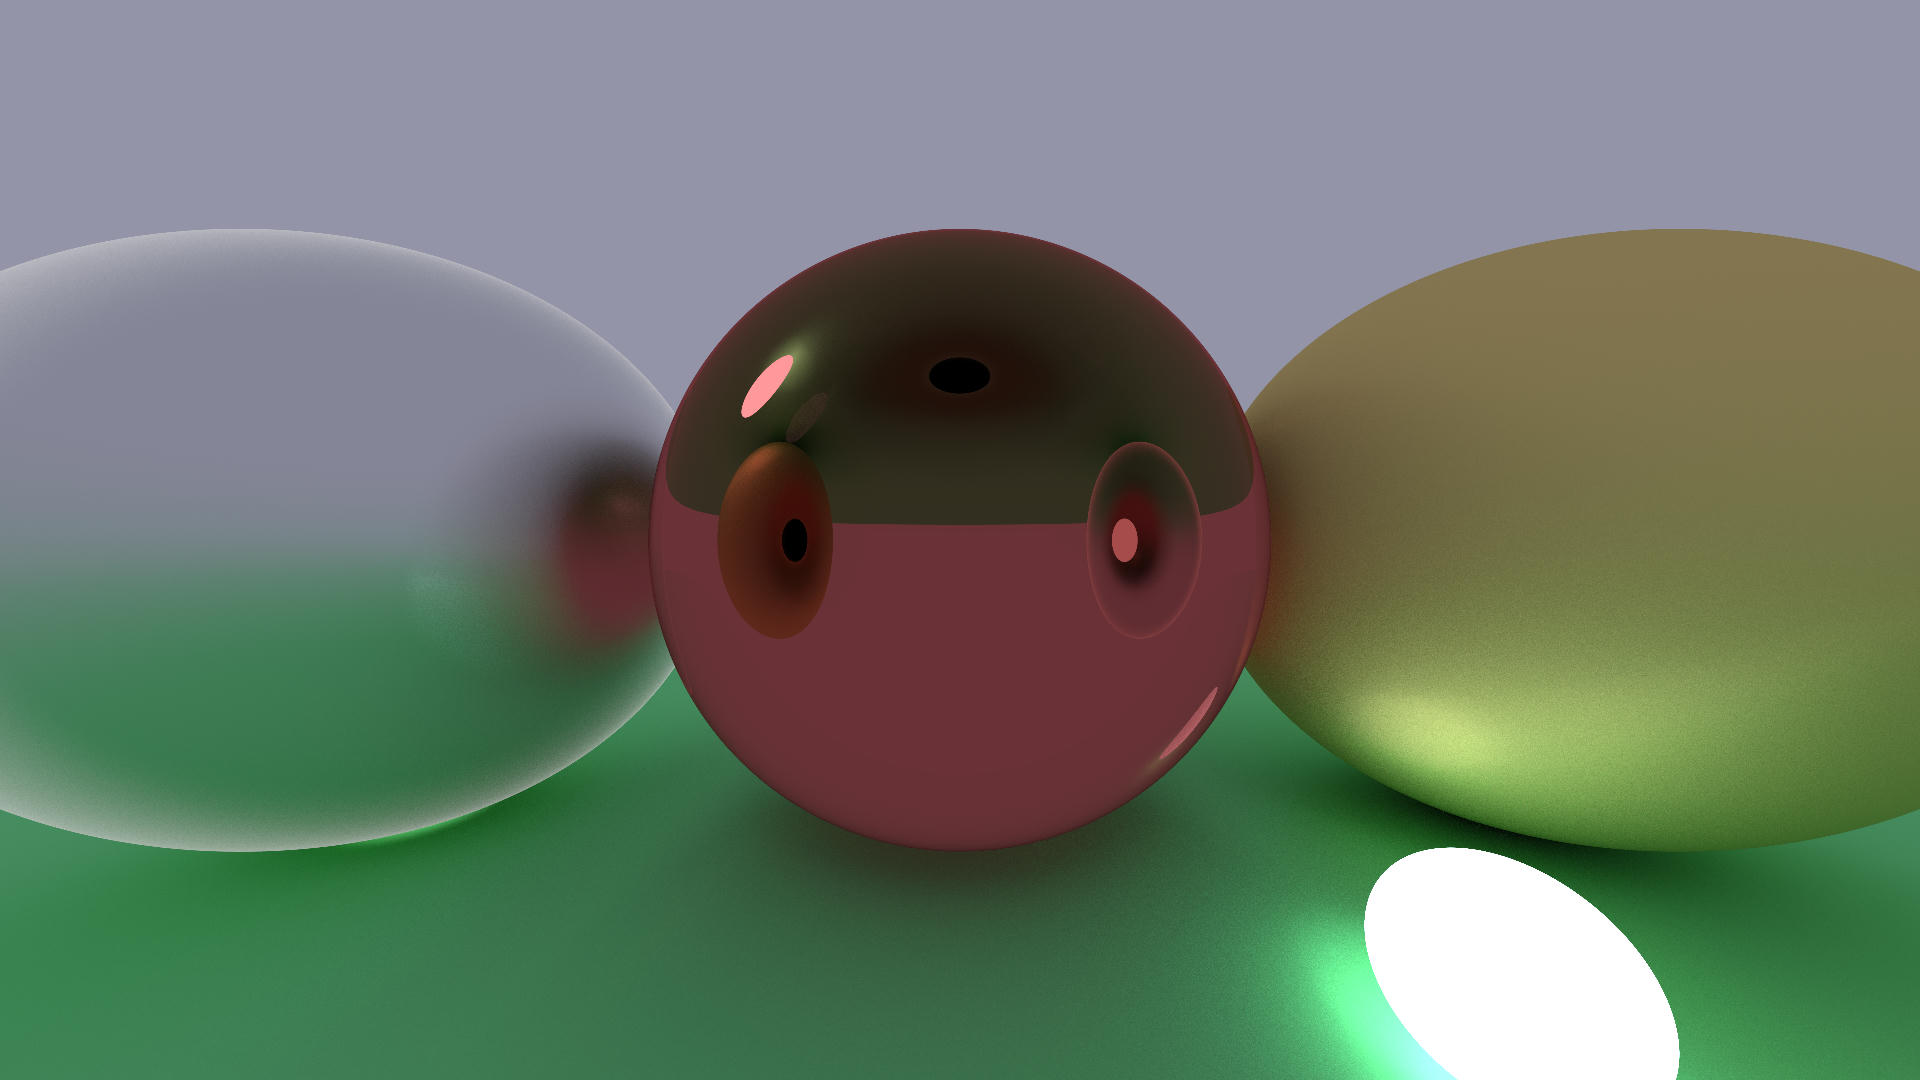
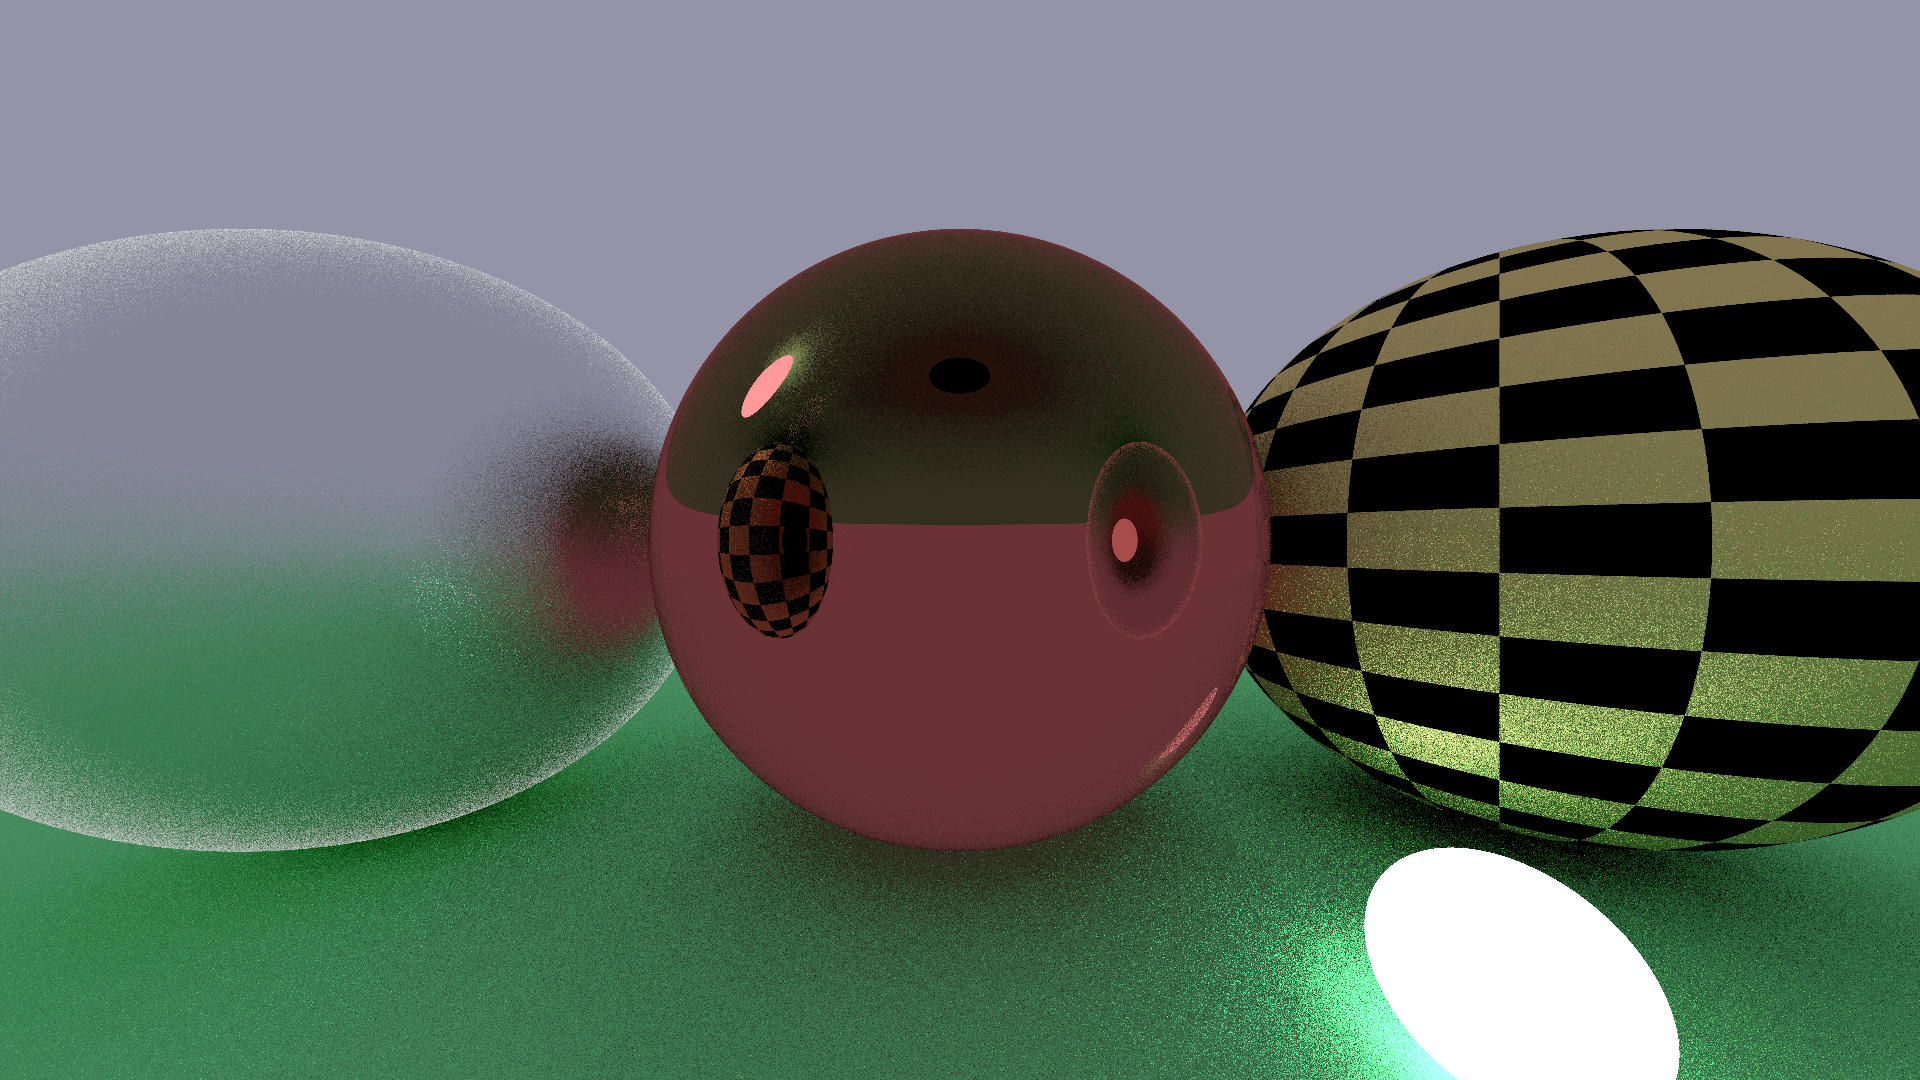
Basic Texturing

diff --git a/src/main.rs b/src/main.rs
@@ -14,7 +14,7 @@ use math::vec::Vec3;
 use crate::{
     camera::Camera,
     hit::HittableList,
-    material::{Dielectric, Diffuse, Emit, MaterialDescriptor, MaterialId, Metal},
+    material::{texture, Dielectric, Diffuse, Emit, MaterialDescriptor, MaterialId, Metal},
     math::quaternion::Quaternion,
     renderer::{OutputBuffers, Renderer},
 };
@@ -31,40 +31,43 @@ fn main() -> Result<(), Box<dyn std::error::Error>> {
         MaterialDescriptor {
             label: Some("Bubble like".to_string()),
             material: Box::new(Dielectric {
-                albedo: Rgb([0.7, 0.3, 0.3]),
+                texture: Box::new(texture::Uniform(Rgb([0.7, 0.3, 0.3]))),
                 ior: 0.8,
                 invert_normal: false,
             }),
         },
         MaterialDescriptor {
             label: Some("Diffuse orange".to_string()),
-            material: Box::new(Diffuse{
-                albedo: Rgb([0.8, 0.6, 0.2]),
+            material: Box::new(Diffuse {
+                texture: Box::new(texture::Checker {
+                    odd: Box::new(texture::Uniform(Rgb([0.8, 0.6, 0.2]))),
+                    even: Box::new(texture::Uniform(Rgb([0., 0., 0.]))),
+                }),
             }),
         },
         MaterialDescriptor {
             label: Some("Gray metal".to_string()),
             material: Box::new(Metal {
-                albedo: Rgb([0.8, 0.8, 0.8]),
+                texture: Box::new(texture::Uniform(Rgb([0.8, 0.8, 0.8]))),
                 roughness: 0.6,
             }),
         },
         MaterialDescriptor {
             label: Some("Ground".to_string()),
             material: Box::new(Diffuse {
-                albedo: Rgb([0.2, 0.9, 0.3]),
+                texture: Box::new(texture::Uniform(Rgb([0.2, 0.9, 0.3]))),
             }),
         },
         MaterialDescriptor {
             label: Some("Light".to_string()),
             material: Box::new(Emit {
-                color: Rgb([2.5, 3.7, 3.9]),
+                texture: Box::new(texture::Uniform(Rgb([2.5, 3.7, 3.9]))),
             }),
         },
         MaterialDescriptor {
             label: Some("Sky".to_string()),
             material: Box::new(Emit {
-                color: Rgb([0.3, 0.3, 0.4]),
+                texture: Box::new(texture::Uniform(Rgb([0.3, 0.3, 0.4]))),
             }),
         },
     ];
@@ -119,7 +122,7 @@ fn main() -> Result<(), Box<dyn std::error::Error>> {
         scene,
         materials,
         options: renderer::RendererOptions {
-            samples_per_pixel: 500,
+            samples_per_pixel: 8,
             diffuse_depth: 20,
             gamma: 2.2,
             world_material: MaterialId(5),

diff --git a/src/material/mod.rs b/src/material/mod.rs
@@ -1,3 +1,4 @@
+pub mod texture;
 use std::path::Path;
 
 use image::Rgb;
@@ -11,6 +12,8 @@ use crate::{
     },
     ray::Ray,
 };
+
+use self::texture::Texture;
 
 pub struct MaterialDescriptor {
     pub label: Option<String>,
@@ -48,7 +51,7 @@ fn non_zero_or(v: Vec3, n: Vec3) -> Vec3 {
 }
 
 pub struct Diffuse {
-    pub albedo: Rgb<f64>,
+    pub texture: Box<dyn Texture>,
 }
 
 impl Material for Diffuse {
@@ -58,36 +61,33 @@ impl Material for Diffuse {
         let bounce_direction = non_zero_or(bounce_normal + bounce_noise, bounce_normal);
 
         Scattered {
-            ray_out: Some(Ray {
-                origin: record.hit_point,
-                direction: bounce_direction,
-            }),
-            albedo: self.albedo,
+            ray_out: Some(Ray::new (record.hit_point, bounce_direction)),
+            albedo: self.texture.color(record.uv)
         }
     }
 }
 
 pub struct Emit {
-    pub color: Rgb<f64>,
+    pub texture: Box<dyn Texture>,
 }
 
 impl Material for Emit {
     fn scatter(
         &self,
         _ray: &Ray,
-        _record: &HitRecord,
+        record: &HitRecord,
         _rng: &mut rand::rngs::ThreadRng,
     ) -> Scattered {
         Scattered {
             ray_out: None,
-            albedo: self.color,
+            albedo: self.texture.color(record.uv)
         }
     }
 }
 
 pub struct Metal {
     pub roughness: f64,
-    pub albedo: Rgb<f64>,
+    pub texture: Box<dyn Texture>
 }
 
 impl Material for Metal {
@@ -105,13 +105,13 @@ impl Material for Metal {
 
         Scattered {
             ray_out,
-            albedo: self.albedo,
+            albedo: self.texture.color(record.uv),
         }
     }
 }
 
 pub struct Dielectric {
-    pub albedo: Rgb<f64>,
+    pub texture: Box<dyn Texture>,
     pub ior: f64,
     pub invert_normal: bool,
 }
@@ -147,7 +147,7 @@ impl Material for Dielectric {
         };
         Scattered {
             ray_out: Some(ray_out),
-            albedo: self.albedo,
+            albedo: self.texture.color(record.uv),
         }
     }
 }

diff --git a/src/renderer.rs b/src/renderer.rs
@@ -7,7 +7,7 @@ use crate::{
     color,
     hit::{Hit, HitRecord, Hittable, HittableList},
     material::{MaterialDescriptor, MaterialId},
-    math::vec::{RgbAsVec3Ext, Vec3, Vec3AsRgbExt},
+    math::{vec::{RgbAsVec3Ext, Vec3, Vec3AsRgbExt}, utils::sphere_uv_from_direction},
     progress,
     ray::Ray,
 };
@@ -201,17 +201,18 @@ impl Renderer {
         } else {
             let material = &self.materials[self.options.world_material.0].material;
             let record = HitRecord {
-                t: 0.0,
                 hit_point: ray.origin,
                 normal: -ray.direction,
+                t: 0.0,
                 material: self.options.world_material,
+                uv: sphere_uv_from_direction(&-ray.direction),
             };
             let scattered = material.scatter(ray, &record, &mut rng);
             RayResult {
                 normal: Vec3::ZERO,
+                albedo: color::BLACK,
                 color: scattered.albedo,
                 depth: 0.0,
-                albedo: color::BLACK,
             }
         }
     }

diff --git a/src/hit/mod.rs b/src/hit/mod.rs
@@ -1,8 +1,8 @@
 use std::ops::Range;
 
 use crate::{
-    material::MaterialId,
-    math::vec::{Normal, Point},
+    material::{MaterialId, texture::Uv},
+    math::{vec::{Normal, Point}, utils::sphere_uv_from_direction},
     ray::Ray,
 };
 
@@ -11,6 +11,7 @@ pub struct HitRecord {
     pub normal: Normal,
     pub t: f64,
     pub material: MaterialId,
+    pub uv: Uv
 }
 
 pub enum Hit {
@@ -54,11 +55,13 @@ impl Hittable for Sphere {
             };
             let hit_point = ray.at(t);
             let normal = (hit_point - self.center).normalize();
+            let uv = sphere_uv_from_direction(&normal); 
             let record = HitRecord {
                 hit_point,
                 normal,
                 t,
                 material: self.material,
+                uv
             };
             Hit::Hit(record)
         }

diff --git a/src/material/texture/mod.rs b/src/material/texture/mod.rs
@@ -1,0 +1,38 @@
+use image::Rgb;
+
+pub type Uv = [f64; 2];
+pub trait Texture : Sync + Send{
+    fn color(&self, uv: Uv) -> Rgb<f64>;
+}
+
+pub struct Uniform (pub Rgb<f64>);
+
+impl Texture for Uniform {
+    fn color(&self, _: Uv) -> Rgb<f64> {
+        self.0
+    }
+}
+
+pub struct Checker {
+    pub odd: Box<dyn Texture>, 
+    pub even: Box<dyn Texture>, 
+}
+
+impl Texture for Checker {
+    fn color(&self, uv: Uv) -> Rgb<f64> {
+        let fu = 10.;
+        let fv = 10.;
+        let wu = std::f64::consts::TAU * fu;
+        let wv = std::f64::consts::TAU * fv;
+        let even = f64::cos(wu*uv[0]) * f64::cos(wv*uv[1]) > 0.0; 
+        let uv  = [uv[0]/fu, uv[1]/fv];
+        if even {
+            self.even.color(uv)
+        }else {
+            self.odd.color(uv)
+        }
+        
+    }
+}
+
+

diff --git a/src/math/utils.rs b/src/math/utils.rs
@@ -26,6 +26,10 @@ use rand::{
     Rng,
 };
 
+use crate::material::texture::Uv;
+
+use super::vec::Vec3;
+
 #[derive(Default)]
 pub struct UnitBall3RejectionMethod;
 #[derive(Default)]
@@ -88,4 +92,13 @@ impl Distribution<[f64; 2]> for UnitSphere2 {
         let (s, c) = f64::sin_cos(phi);
         [c, s]
     }
+}
+
+pub fn sphere_uv_from_direction(direction: &Vec3) -> Uv {
+    let h = direction.dot(&Vec3::Y);
+    let a = (direction - &(h * Vec3::Y)).normalize();
+    let u = 0.5 + f64::atan2(a.x(), a.z()) / std::f64::consts::TAU;
+    let v = f64::acos(h) / std::f64::consts::PI;
+
+    [u, v]
 }

diff --git a/src/ray.rs b/src/ray.rs
@@ -1,9 +1,12 @@
+use std::marker::PhantomData;
+
 use super::math::vec::Vec3;
 
 #[derive(Debug)]
 pub struct Ray {
     pub origin: Vec3,
     pub direction: Vec3,
+    _marker: PhantomData<()> // Can't construct Ray without new
 }
 
 impl Ray {
@@ -11,6 +14,7 @@ impl Ray {
         Self {
             origin,
             direction: direction.normalize(),
+            _marker: Default::default()
         }
     }
     pub fn at(&self, t: f64) -> Vec3 {

diff --git a/Readme.md b/Readme.md
@@ -1,4 +1,4 @@
-# The famous Raytracing in a Weekend Book
+# The famous Raytracing in a Week~~end~~ Book
 
 Current result: 
 ![Current result](./output/ldr/color.jpg)
